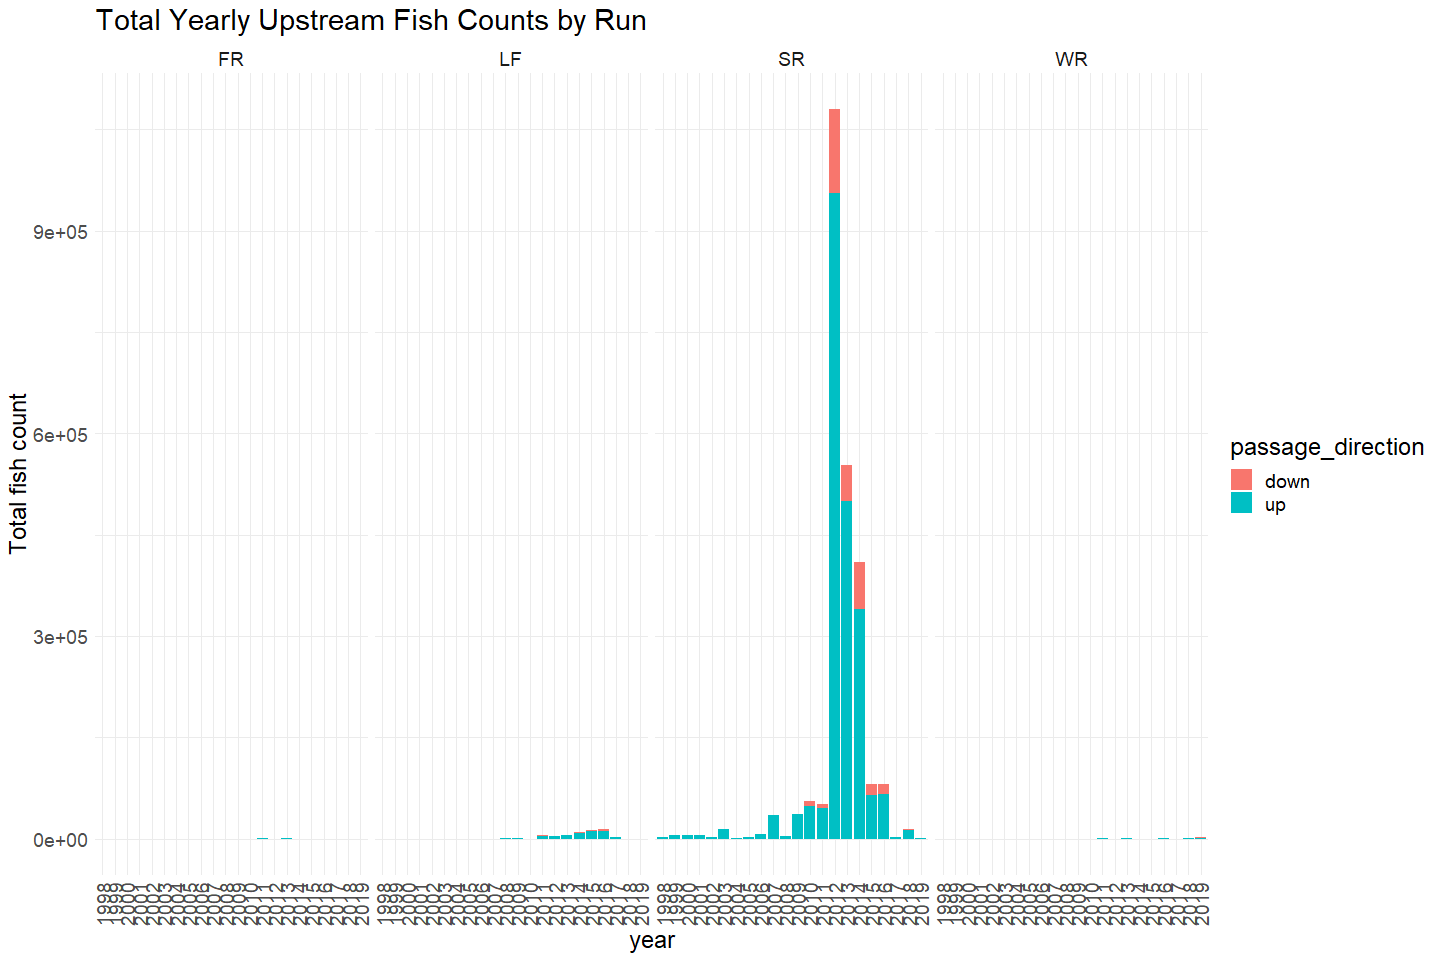
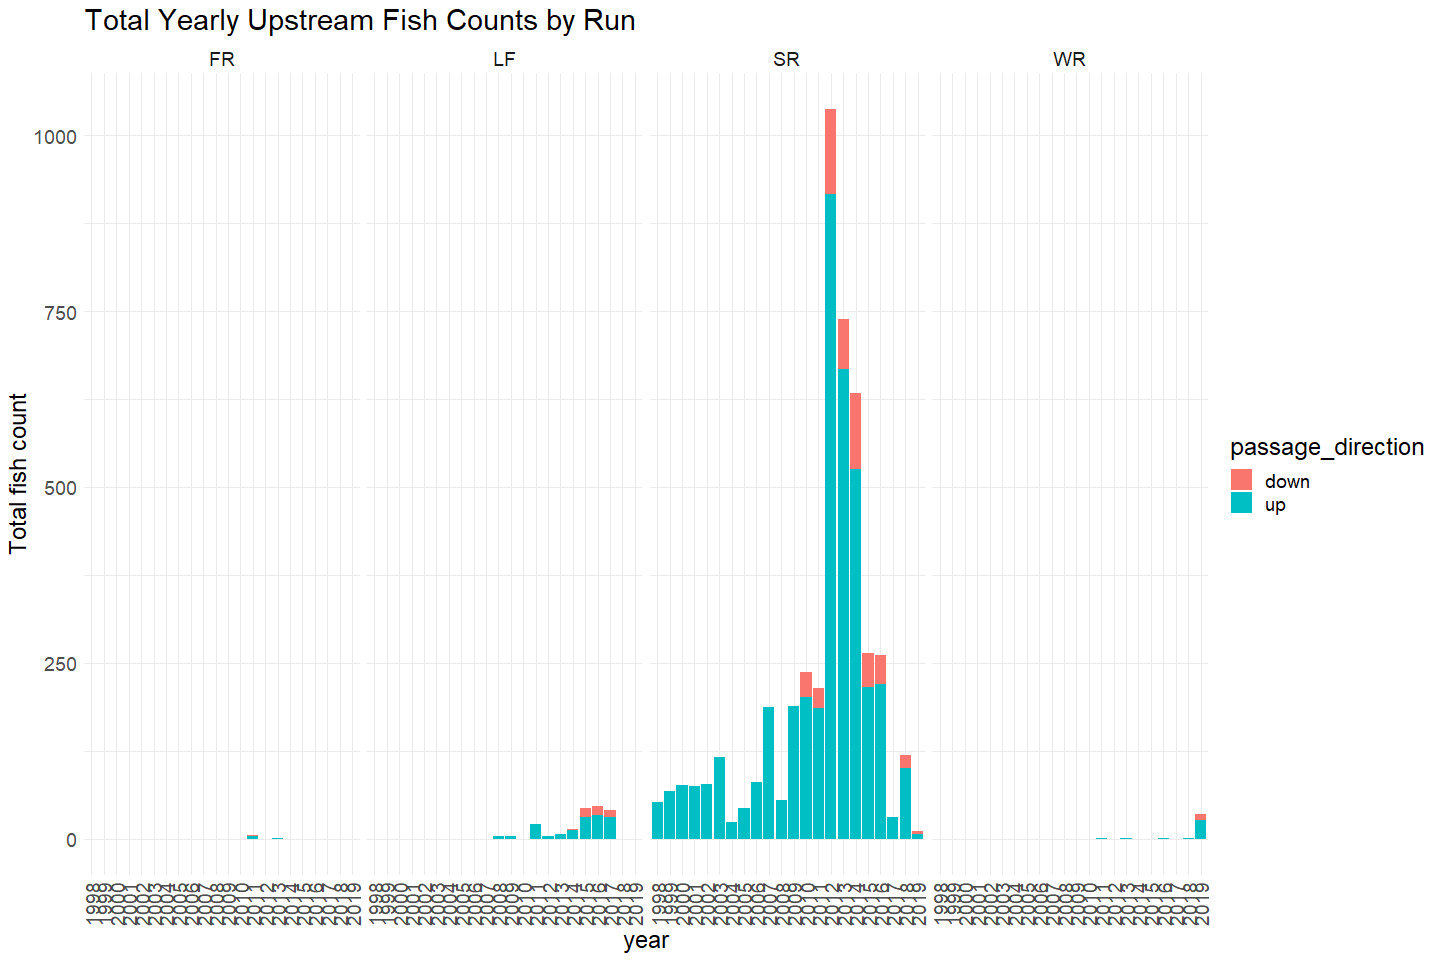
Fixes plot for upstream passage count battle creek

diff --git a/scripts/adult-upstream-passage-monitoring/battle-creek/battle_passage_video_data_qc.md b/scripts/adult-upstream-passage-monitoring/battle-creek/battle_passage_video_data_qc.md
@@ -136,7 +136,7 @@ cleaner_video_data %>%
   theme_minimal() + 
   theme(text = element_text(size = 23),
         axis.text.x = element_text(angle = 90, vjust = 0.5, hjust=1)) + 
-  labs(title = "Daily Count of Upstream Passage All Runs", 
+  labs(title = "Daily Count of Passage All Runs", 
        x = "Date")  
 ```
 
@@ -165,8 +165,8 @@ cleaner_video_data %>% group_by(date, passage_direction) %>%
 cleaner_video_data  %>%
   mutate(year = as.factor(year(date))) %>%
   filter(run %in% c("FR", "LF", "SR", "WR")) %>% # Filter to only show runs that have more than one data point and are not NA/Unknown
-  group_by(year, passage_direction) %>%
-  mutate(total_count = sum(count)) %>%
+  group_by(year, passage_direction, run) %>%
+  summarise(total_count = sum(count)) %>%
   ggplot(aes(x = year, y = total_count, fill = passage_direction)) + 
   geom_col() + 
   theme_minimal() +
@@ -176,6 +176,8 @@ cleaner_video_data  %>%
         axis.text.x = element_text(angle = 90, vjust = 0.5, hjust=1)) + 
   facet_grid(~run)
 ```
+
+    ## `summarise()` has grouped output by 'year', 'passage_direction'. You can override using the `.groups` argument.
 
 ![](battle_passage_video_data_qc_files/figure-gfm/unnamed-chunk-7-1.png)<!-- -->
 
